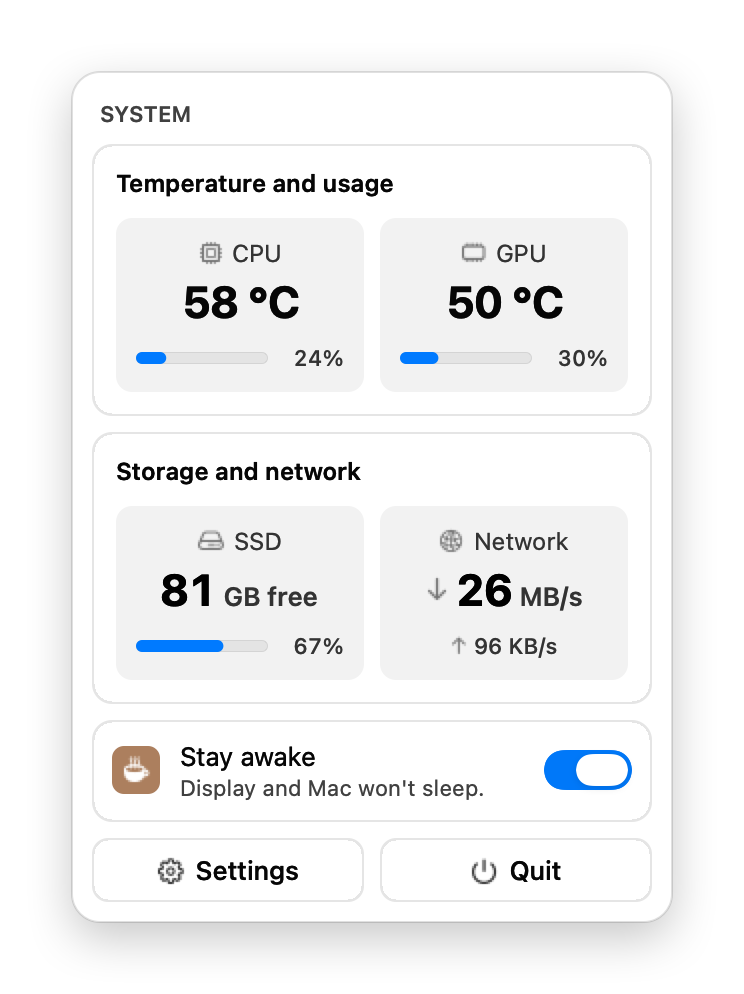
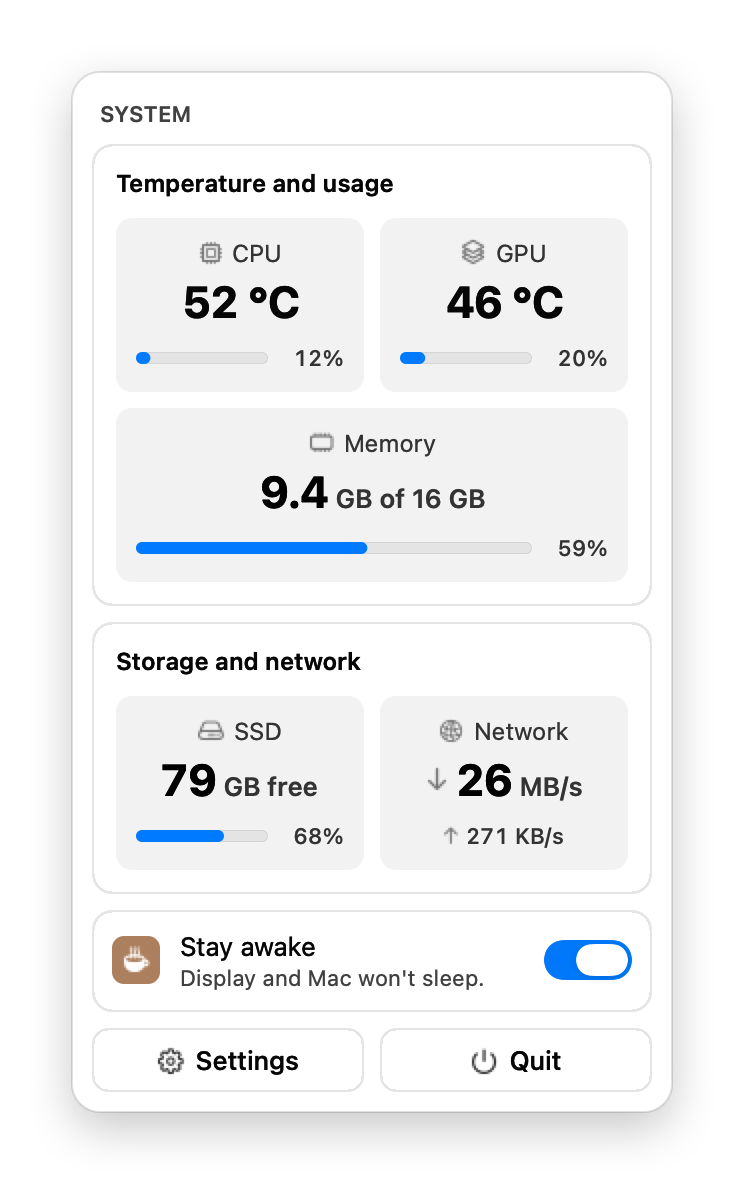
Menu bar panel: memory used, across a full row

diff --git a/Sources/Tray.swift b/Sources/Tray.swift
@@ -122,6 +122,8 @@ final class Tray: NSObject {
     private let gpu = label("–", size: 22, weight: .bold)
     private let cpuLoad = (bar: NSProgressIndicator(), text: label("–", size: 11, color: .secondaryLabelColor))
     private let gpuLoad = (bar: NSProgressIndicator(), text: label("–", size: 11, color: .secondaryLabelColor))
+    private let memory = label("–", size: 22, weight: .bold)
+    private let memoryUsed = (bar: NSProgressIndicator(), text: label("–", size: 11, color: .secondaryLabelColor))
     private let disk = label("–", size: 22, weight: .bold)
     private let diskUsed = (bar: NSProgressIndicator(), text: label("–", size: 11, color: .secondaryLabelColor))
     private let down = label("–", size: 22, weight: .bold)
@@ -259,7 +261,7 @@ final class Tray: NSObject {
     // Free space barely moves, so it's only read when the panel opens.
     private func readStats(disk readDisk: Bool) {
         reads.async {
-            let ct = Temps.cpu, gt = Temps.gpu, u = Usage.read(), d = readDisk ? Usage.disk : nil
+            let ct = Temps.cpu, gt = Temps.gpu, u = Usage.read(), m = Usage.memory, d = readDisk ? Usage.disk : nil
             DispatchQueue.main.async {
                 for (field, t) in [(self.cpu, ct), (self.gpu, gt)] {
                     field.stringValue = t.map { String(format: "%.0f °C", $0) } ?? "–"
@@ -267,6 +269,13 @@ final class Tray: NSObject {
                 for (load, v) in [(self.cpuLoad, u.cpu), (self.gpuLoad, u.gpu)] {
                     load.bar.doubleValue = v ?? 0
                     load.text.stringValue = v.map { String(format: "%.0f%%", $0) } ?? "–"
+                }
+                if let m {
+                    // RAM in binary gigabytes, as macOS sizes it: 16 GB, not 17.2.
+                    let gb = { (v: Double) in v / 1_073_741_824 }
+                    self.show(self.memory, (String(format: "%.1f", gb(m.used)), "GB"), String(format: " of %.0f GB", gb(m.total)))
+                    self.memoryUsed.bar.doubleValue = m.used / m.total * 100
+                    self.memoryUsed.text.stringValue = String(format: "%.0f%%", m.used / m.total * 100)
                 }
                 if let d {
                     self.show(self.disk, bytes(d.free), " free")
@@ -305,21 +314,29 @@ final class Tray: NSObject {
             if fill { footer.widthAnchor.constraint(equalTo: body.widthAnchor).isActive = true }
             return Card(body, inset: 10, fill: NSColor.labelColor.withAlphaComponent(0.05), radius: 8, border: false)
         }
-        func card(_ title: String, _ tiles: [NSView]) -> NSView {
-            let row = stack(tiles, vertical: false, spacing: 8)
-            row.distribution = .fillEqually
-            let s = stack([label(title, size: 12, weight: .semibold), row], spacing: 10)
+        // Each row splits its width equally between its tiles.
+        func card(_ title: String, _ rows: [[NSView]]) -> NSView {
+            let rows = rows.map { tiles -> NSView in
+                let row = stack(tiles, vertical: false, spacing: 8)
+                row.distribution = .fillEqually
+                return row
+            }
+            let s = stack([label(title, size: 12, weight: .semibold)] + rows, spacing: 8)
+            s.setCustomSpacing(10, after: s.arrangedSubviews[0])
             stretch(s)
             return Card(s)
         }
-        for v in [cpu, gpu, disk, down] { v.font = .monospacedDigitSystemFont(ofSize: 22, weight: .bold) }
+        for v in [cpu, gpu, memory, disk, down] { v.font = .monospacedDigitSystemFont(ofSize: 22, weight: .bold) }
         up.font = .monospacedDigitSystemFont(ofSize: 11, weight: .medium)
-        let temps = card("Temperature and usage", [tile("cpu", "CPU", cpu, meter(cpuLoad)), tile("memorychip", "GPU", gpu, meter(gpuLoad))])
-        let io = card("Storage and network", [
+        let temps = card("Temperature and usage", [
+            [tile("cpu", "CPU", cpu, meter(cpuLoad)), tile("square.3.layers.3d", "GPU", gpu, meter(gpuLoad))],
+            [tile("memorychip", "Memory", memory, meter(memoryUsed))],
+        ])
+        let io = card("Storage and network", [[
             tile("internaldrive", "SSD", disk, meter(diskUsed)),
             tile("network", "Network", stack([symbol("arrow.down", size: 12), down], vertical: false, spacing: 3),
                  stack([symbol("arrow.up", size: 9), up], vertical: false, spacing: 3), fill: false),
-        ])
+        ]])
 
         awake.target = self
         awake.action = #selector(awakeChanged)

diff --git a/Sources/Temps.swift b/Sources/Temps.swift
@@ -99,6 +99,18 @@ enum Usage {
         return (cpu, gpu(), rate(a.rx, b.rx), rate(a.tx, b.tx))
     }
 
+    // Memory used the way Activity Monitor counts it: app memory, wired and compressed. Microseconds to read.
+    static var memory: (used: Double, total: Double)? {
+        var s = vm_statistics64()
+        var n = mach_msg_type_number_t(MemoryLayout<vm_statistics64>.size / MemoryLayout<integer_t>.size)
+        let ok = withUnsafeMutablePointer(to: &s) {
+            $0.withMemoryRebound(to: integer_t.self, capacity: Int(n)) { host_statistics64(mach_host_self(), HOST_VM_INFO64, $0, &n) }
+        }
+        guard ok == KERN_SUCCESS else { return nil }
+        let pages = UInt64(s.internal_page_count) - UInt64(s.purgeable_count) + UInt64(s.wire_count) + UInt64(s.compressor_page_count)
+        return (Double(pages * UInt64(vm_kernel_page_size)), Double(ProcessInfo.processInfo.physicalMemory))
+    }
+
     // Free space as Finder counts it (purgeable space is free). ~4 ms, so it's read when the panel opens.
     static var disk: (free: Double, total: Double)? {
         let v = try? URL(fileURLWithPath: "/").resourceValues(forKeys: [.volumeAvailableCapacityForImportantUsageKey, .volumeTotalCapacityKey])

diff --git a/README.md b/README.md
@@ -30,10 +30,10 @@ All-in-one Mac utilities keep growing until the few features you rely on get slo
 - **Maximize windows.** The green button fills the screen instead of opening a new full-screen Space. Click again to restore, or ⌥-click for real full screen.
 - **Invert mouse scrolling.** Flips wheel mice (hello, Logitech) while the trackpad keeps natural scrolling.
 - **Stay awake.** Keeps the display and the Mac awake, one switch in the menu bar.
-- **System stats** in the menu bar panel: CPU and GPU temperature and usage, free SSD space and network speed. Temperatures come straight from the SMC, the rest from the kernel and the GPU driver.
+- **System stats** in the menu bar panel: CPU and GPU temperature and usage, memory, free SSD space and network speed. Temperatures come straight from the SMC, the rest from the kernel and the GPU driver.
 
 <p align="center">
-  <img src="docs/menu.png" width="320" alt="Menu bar panel with CPU and GPU temperature and usage, SSD space, network speed, Stay awake, Settings and Quit">
+  <img src="docs/menu.png" width="320" alt="Menu bar panel with CPU and GPU temperature and usage, memory, SSD space, network speed, Stay awake, Settings and Quit">
   &nbsp;&nbsp;
   <img src="docs/settings.png" width="400" alt="Settings window with permissions and feature switches">
 </p>
